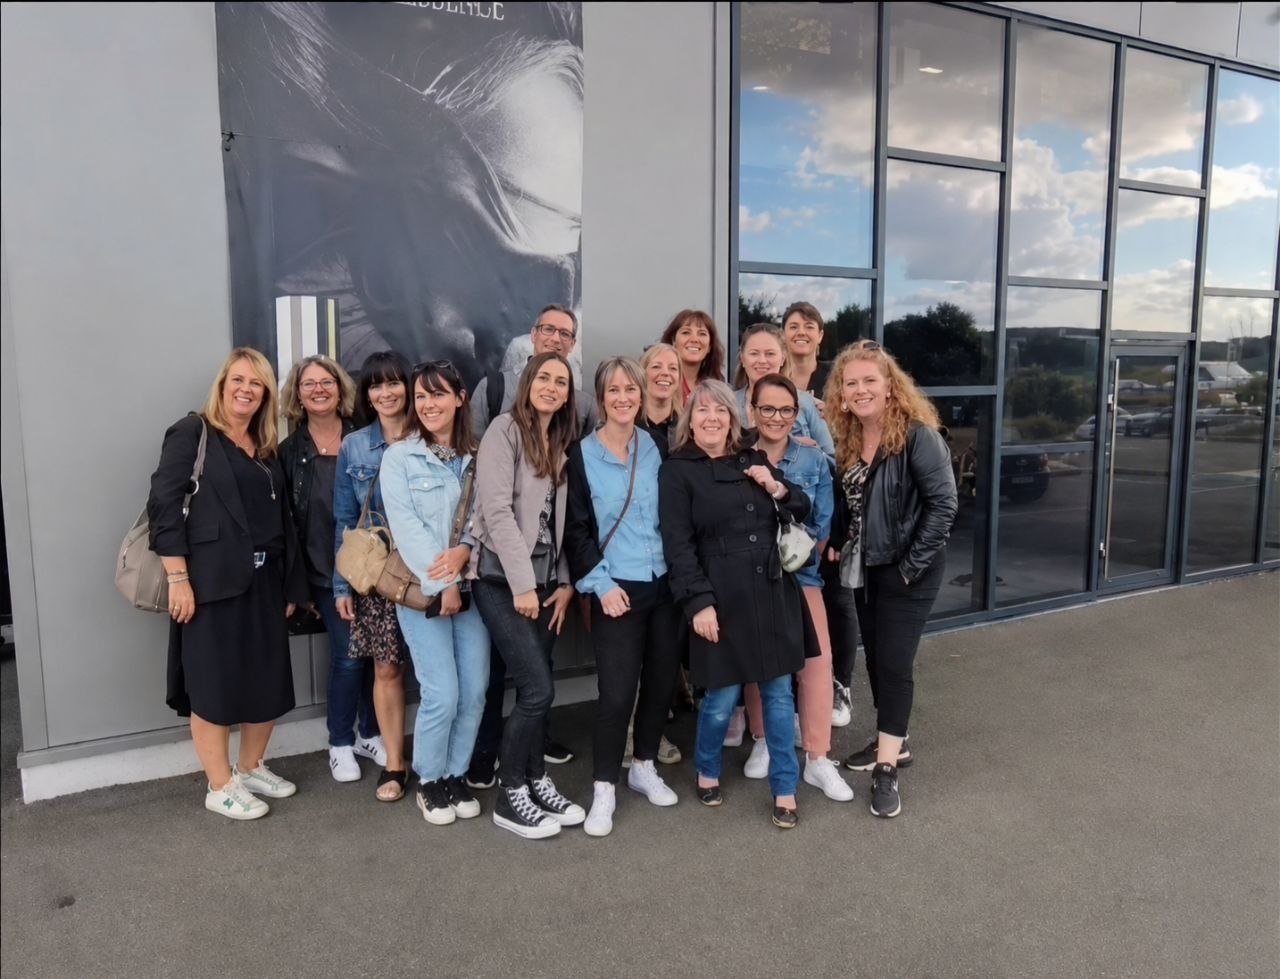
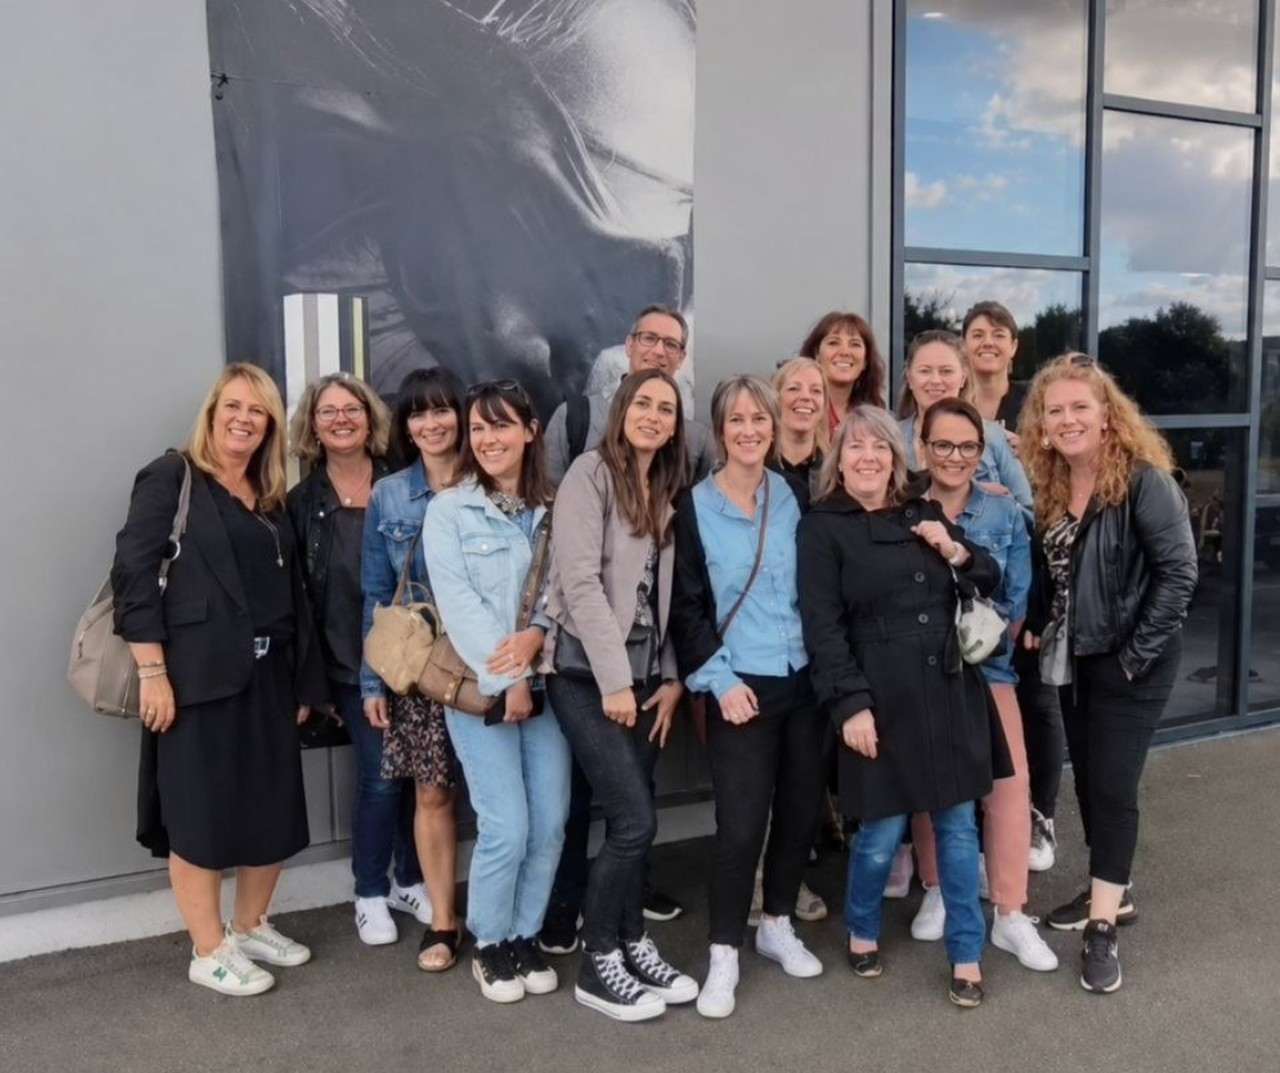
Add files via upload

diff --git a/index.html b/index.html
@@ -1058,7 +1058,7 @@ footer{background:var(--brun);color:rgba(253,250,247,.8);padding:55px 24px 26px}
       <div style="display:grid;grid-template-columns:repeat(auto-fit,minmax(190px,1fr));gap:18px;max-width:1100px;margin:0 auto 34px">
 
         <div style="background:white;border-radius:var(--r);overflow:hidden;box-shadow:var(--sh);text-align:center">
-          <div style="width:100%;height:210px;background:#FDF6F0;display:flex;align-items:center;justify-content:center;overflow:hidden"><img src="exh-rdv-individuel.jpg" alt="RDV individuel" class="exh-prest-img" style="max-width:100%;max-height:100%;object-fit:contain" onerror="this.parentElement.style.display='none'"/></div>
+          <div style="width:100%;aspect-ratio:1280/1073;overflow:hidden"><img src="exh-rdv-individuel.jpg" alt="RDV individuel" class="exh-prest-img" style="width:100%;height:100%;object-fit:cover;display:block" onerror="this.parentElement.style.display='none'"/></div>
           <div style="padding:16px 14px">
             <div class="vt" style="margin-bottom:8px">RDV individuel</div>
             <div class="vt" style="font-size:12.5px;font-style:italic;color:var(--terra);margin-bottom:4px">Un moment rien que pour vous ✨</div><div class="vd">Un moment privilégié, en tête-à-tête, pour échanger sur vos besoins et découvrir les parfums et les produits de beauté qui vous correspondent.</div>
@@ -1067,7 +1067,7 @@ footer{background:var(--brun);color:rgba(253,250,247,.8);padding:55px 24px 26px}
         </div>
 
         <div style="background:white;border-radius:var(--r);overflow:hidden;box-shadow:var(--sh);text-align:center">
-          <div style="width:100%;height:210px;background:#FDF6F0;display:flex;align-items:center;justify-content:center;overflow:hidden"><img src="exh-atelier-domicile.jpg" alt="Atelier découverte à domicile" class="exh-prest-img" style="max-width:100%;max-height:100%;object-fit:contain" onerror="this.parentElement.style.display='none'"/></div>
+          <div style="width:100%;aspect-ratio:1280/1073;overflow:hidden"><img src="exh-atelier-domicile.jpg" alt="Atelier découverte à domicile" class="exh-prest-img" style="width:100%;height:100%;object-fit:cover;display:block" onerror="this.parentElement.style.display='none'"/></div>
           <div style="padding:16px 14px">
             <div class="vt" style="margin-bottom:8px">Atelier découverte à domicile</div>
             <div class="vt" style="font-size:12.5px;font-style:italic;color:var(--terra);margin-bottom:4px">Réunissez vos proches pour un moment de partage ✨</div><div class="vd">Un moment de convivialité autour du parfum, des soins de beauté et du bien-être, chez vous. Gratuitement.</div>
@@ -1076,7 +1076,7 @@ footer{background:var(--brun);color:rgba(253,250,247,.8);padding:55px 24px 26px}
         </div>
 
         <div style="background:white;border-radius:var(--r);overflow:hidden;box-shadow:var(--sh);text-align:center">
-          <div style="width:100%;height:210px;background:#FDF6F0;display:flex;align-items:center;justify-content:center;overflow:hidden"><img src="exh-presentation-entreprise.jpg" alt="Présentation en entreprise" class="exh-prest-img" style="max-width:100%;max-height:100%;object-fit:contain" onerror="this.parentElement.style.display='none'"/></div>
+          <div style="width:100%;aspect-ratio:1280/1073;overflow:hidden"><img src="exh-presentation-entreprise.jpg" alt="Présentation en entreprise" class="exh-prest-img" style="width:100%;height:100%;object-fit:cover;display:block" onerror="this.parentElement.style.display='none'"/></div>
           <div style="padding:16px 14px">
             <div class="vt" style="margin-bottom:8px">Présentation en entreprise</div>
             <div class="vt" style="font-size:12.5px;font-style:italic;color:var(--terra);margin-bottom:4px">Une pause bien-être pour toute votre équipe ✨</div><div class="vd">Une pause bien-être pour vos collaborateurs ou clients, sur votre lieu de travail (CSE, entreprise, association), gratuitement.</div>
@@ -1085,7 +1085,7 @@ footer{background:var(--brun);color:rgba(253,250,247,.8);padding:55px 24px 26px}
         </div>
 
         <div style="background:white;border-radius:var(--r);overflow:hidden;box-shadow:var(--sh);text-align:center">
-          <div style="width:100%;height:210px;background:#FDF6F0;display:flex;align-items:center;justify-content:center;overflow:hidden"><img src="exh-mallette-parfum.jpg" alt="Mallette découverte parfum" class="exh-prest-img" style="max-width:100%;max-height:100%;object-fit:contain" onerror="this.parentElement.style.display='none'"/></div>
+          <div style="width:100%;aspect-ratio:1280/1073;overflow:hidden"><img src="exh-mallette-parfum.jpg" alt="Mallette découverte parfum" class="exh-prest-img" style="width:100%;height:100%;object-fit:cover;display:block" onerror="this.parentElement.style.display='none'"/></div>
           <div style="padding:16px 14px">
             <div class="vt" style="margin-bottom:8px">Mallette découverte parfum</div>
             <div class="vt" style="font-size:12.5px;font-style:italic;color:var(--terra);margin-bottom:4px">Trouvez votre signature parfumée ✨</div><div class="vd">Découvrez nos 120 fragrances de parfums pendant 48h, tranquillement chez vous, gratuitement.</div>
@@ -1094,7 +1094,7 @@ footer{background:var(--brun);color:rgba(253,250,247,.8);padding:55px 24px 26px}
         </div>
 
         <div style="background:white;border-radius:var(--r);overflow:hidden;box-shadow:var(--sh);text-align:center">
-          <div style="width:100%;height:210px;background:#FDF6F0;display:flex;align-items:center;justify-content:center;overflow:hidden"><img src="exh-box-decouverte.png" alt="Box découverte beauté" class="exh-prest-img" style="max-width:100%;max-height:100%;object-fit:contain" onerror="this.parentElement.style.display='none'"/></div>
+          <div style="width:100%;aspect-ratio:1280/1073;overflow:hidden"><img src="exh-box-decouverte.png" alt="Box découverte beauté" class="exh-prest-img" style="width:100%;height:100%;object-fit:cover;display:block" onerror="this.parentElement.style.display='none'"/></div>
           <div style="padding:16px 14px">
             <div class="vt" style="margin-bottom:8px">Box découverte beauté</div>
             <div class="vt" style="font-size:12.5px;font-style:italic;color:var(--terra);margin-bottom:4px">Votre routine beauté sur-mesure ✨</div><div class="vd">Découvrez toute notre gamme beauté pendant 48h, tranquillement chez vous, gratuitement.</div>
